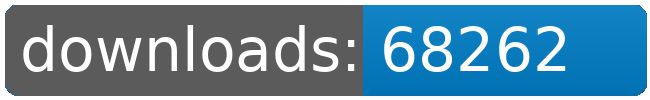
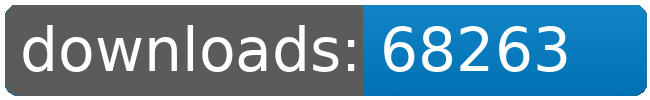
dl log written

Changed region(s): [[0.8308, 0.42, 0.8923, 0.72], [0.8, 0.27, 0.8615, 0.33]]

diff --git a/README.md b/README.md
@@ -4,80 +4,80 @@
 <table>
 	<tr>
 		<td></td>
-		<td>2026-10-27</td>
 		<td>2026-10-28</td>
 		<td>2026-10-29</td>
 		<td>2026-10-30</td>
 		<td>2026-10-31</td>
 		<td>2026-11-01</td>
 		<td>2026-11-02</td>
+		<td>2026-11-03</td>
 		<td>today +</td>
 	</tr>
 	<tr>
 		<td>Bunsen.Burner</td>
-		<td>9038</td>
 		<td>9050</td>
 		<td>9057</td>
 		<td>9064</td>
 		<td>9074</td>
 		<td>9081</td>
 		<td>9087</td>
-		<td>+ 6</td>
+		<td>9087</td>
+		<td></td>
 	</tr>
 	<tr>
 		<td>Factory.Outlets</td>
-		<td>8151</td>
 		<td>8164</td>
 		<td>8172</td>
 		<td>8179</td>
 		<td>8187</td>
 		<td>8196</td>
 		<td>8204</td>
-		<td>+ 8</td>
+		<td>8204</td>
+		<td></td>
 	</tr>
 	<tr>
 		<td>Fundamental.Outfit.Expansion</td>
-		<td>9571</td>
 		<td>9583</td>
 		<td>9590</td>
 		<td>9597</td>
 		<td>9609</td>
 		<td>9620</td>
 		<td>9632</td>
-		<td>+ 12</td>
+		<td>9633</td>
+		<td>+ 1</td>
 	</tr>
 	<tr>
 		<td>Fundamental.Outfit.Expansion.Alien</td>
 		<td>38</td>
 		<td>38</td>
 		<td>38</td>
-		<td>38</td>
 		<td>39</td>
 		<td>43</td>
 		<td>46</td>
-		<td>+ 3</td>
+		<td>46</td>
+		<td></td>
 	</tr>
 	<tr>
 		<td>Jaws</td>
-		<td>7901</td>
 		<td>7912</td>
 		<td>7919</td>
 		<td>7926</td>
 		<td>7935</td>
 		<td>7943</td>
 		<td>7949</td>
-		<td>+ 6</td>
+		<td>7949</td>
+		<td></td>
 	</tr>
 	<tr>
 		<td>Korunak.Defense.Drones</td>
-		<td>8171</td>
 		<td>8183</td>
 		<td>8190</td>
 		<td>8197</td>
 		<td>8206</td>
 		<td>8215</td>
 		<td>8220</td>
-		<td>+ 5</td>
+		<td>8220</td>
+		<td></td>
 	</tr>
 	<tr>
 		<td>Laser.Sight</td>
@@ -85,54 +85,54 @@
 		<td>19</td>
 		<td>19</td>
 		<td>19</td>
-		<td>19</td>
+		<td>21</td>
 		<td>21</td>
 		<td>21</td>
 		<td></td>
 	</tr>
 	<tr>
 		<td>Louise.Conglomerate.Shipyards</td>
-		<td>8890</td>
 		<td>8904</td>
 		<td>8912</td>
 		<td>8920</td>
 		<td>8933</td>
 		<td>8945</td>
 		<td>8956</td>
-		<td>+ 11</td>
+		<td>8956</td>
+		<td></td>
 	</tr>
 	<tr>
 		<td>Sheragi.Rebirth.Redux</td>
 		<td>110</td>
-		<td>110</td>
 		<td>112</td>
 		<td>112</td>
 		<td>112</td>
+		<td>113</td>
 		<td>113</td>
 		<td>113</td>
 		<td></td>
 	</tr>
 	<tr>
 		<td>Solar.Sails</td>
-		<td>8054</td>
 		<td>8068</td>
 		<td>8075</td>
 		<td>8082</td>
 		<td>8094</td>
 		<td>8101</td>
 		<td>8107</td>
-		<td>+ 6</td>
+		<td>8107</td>
+		<td></td>
 	</tr>
 	<tr>
 		<td>Zone.of.Control</td>
-		<td>7849</td>
 		<td>7862</td>
 		<td>7869</td>
 		<td>7876</td>
 		<td>7885</td>
 		<td>7893</td>
 		<td>7898</td>
-		<td>+ 5</td>
+		<td>7898</td>
+		<td></td>
 	</tr>
 	<tr>
 		<td>zzzZapping.Tweaks</td>
@@ -140,7 +140,7 @@
 		<td>27</td>
 		<td>27</td>
 		<td>27</td>
-		<td>27</td>
+		<td>29</td>
 		<td>29</td>
 		<td>29</td>
 		<td></td>
@@ -153,8 +153,8 @@
 		<td></td>
 		<td></td>
 		<td></td>
-		<td>68262</td>
-		<td>62</td>
+		<td>68263</td>
+		<td>1</td>
 	</tr>
 </table>
 </sub></sup>
@@ -162,110 +162,110 @@
 <table>
 	<tr>
 		<td></td>
-		<td>2026-10-27</td>
 		<td>2026-10-28</td>
 		<td>2026-10-29</td>
 		<td>2026-10-30</td>
 		<td>2026-10-31</td>
 		<td>2026-11-01</td>
 		<td>2026-11-02</td>
+		<td>2026-11-03</td>
 		<td>today +</td>
 	</tr>
 	<tr>
 		<td>Fundamental.Outfit.Expansion</td>
-		<td>9571</td>
 		<td>9583</td>
 		<td>9590</td>
 		<td>9597</td>
 		<td>9609</td>
 		<td>9620</td>
 		<td>9632</td>
-		<td>+ 12</td>
+		<td>9633</td>
+		<td>+ 1</td>
 	</tr>
 	<tr>
 		<td>Bunsen.Burner</td>
-		<td>9038</td>
 		<td>9050</td>
 		<td>9057</td>
 		<td>9064</td>
 		<td>9074</td>
 		<td>9081</td>
 		<td>9087</td>
-		<td>+ 6</td>
+		<td>9087</td>
+		<td></td>
 	</tr>
 	<tr>
 		<td>Louise.Conglomerate.Shipyards</td>
-		<td>8890</td>
 		<td>8904</td>
 		<td>8912</td>
 		<td>8920</td>
 		<td>8933</td>
 		<td>8945</td>
 		<td>8956</td>
-		<td>+ 11</td>
+		<td>8956</td>
+		<td></td>
 	</tr>
 	<tr>
 		<td>Korunak.Defense.Drones</td>
-		<td>8171</td>
 		<td>8183</td>
 		<td>8190</td>
 		<td>8197</td>
 		<td>8206</td>
 		<td>8215</td>
 		<td>8220</td>
-		<td>+ 5</td>
+		<td>8220</td>
+		<td></td>
 	</tr>
 	<tr>
 		<td>Factory.Outlets</td>
-		<td>8151</td>
 		<td>8164</td>
 		<td>8172</td>
 		<td>8179</td>
 		<td>8187</td>
 		<td>8196</td>
 		<td>8204</td>
-		<td>+ 8</td>
+		<td>8204</td>
+		<td></td>
 	</tr>
 	<tr>
 		<td>Solar.Sails</td>
-		<td>8054</td>
 		<td>8068</td>
 		<td>8075</td>
 		<td>8082</td>
 		<td>8094</td>
 		<td>8101</td>
 		<td>8107</td>
-		<td>+ 6</td>
+		<td>8107</td>
+		<td></td>
 	</tr>
 	<tr>
 		<td>Jaws</td>
-		<td>7901</td>
 		<td>7912</td>
 		<td>7919</td>
 		<td>7926</td>
 		<td>7935</td>
 		<td>7943</td>
 		<td>7949</td>
-		<td>+ 6</td>
+		<td>7949</td>
+		<td></td>
 	</tr>
 	<tr>
 		<td>Zone.of.Control</td>
-		<td>7849</td>
 		<td>7862</td>
 		<td>7869</td>
 		<td>7876</td>
 		<td>7885</td>
 		<td>7893</td>
 		<td>7898</td>
-		<td>+ 5</td>
+		<td>7898</td>
+		<td></td>
 	</tr>
 	<tr>
 		<td>Sheragi.Rebirth.Redux</td>
 		<td>110</td>
-		<td>110</td>
 		<td>112</td>
 		<td>112</td>
 		<td>112</td>
+		<td>113</td>
 		<td>113</td>
 		<td>113</td>
 		<td></td>
@@ -275,11 +275,11 @@
 		<td>38</td>
 		<td>38</td>
 		<td>38</td>
-		<td>38</td>
 		<td>39</td>
 		<td>43</td>
 		<td>46</td>
-		<td>+ 3</td>
+		<td>46</td>
+		<td></td>
 	</tr>
 	<tr>
 		<td>zzzZapping.Tweaks</td>
@@ -287,7 +287,7 @@
 		<td>27</td>
 		<td>27</td>
 		<td>27</td>
-		<td>27</td>
+		<td>29</td>
 		<td>29</td>
 		<td>29</td>
 		<td></td>
@@ -298,7 +298,7 @@
 		<td>19</td>
 		<td>19</td>
 		<td>19</td>
-		<td>19</td>
+		<td>21</td>
 		<td>21</td>
 		<td>21</td>
 		<td></td>
@@ -311,8 +311,8 @@
 		<td></td>
 		<td></td>
 		<td></td>
-		<td>68262</td>
-		<td>62</td>
+		<td>68263</td>
+		<td>1</td>
 	</tr>
 </table>
 </sub></sup>
@@ -379,9 +379,9 @@
 		<td></td>
 	</tr>
 	<tr>
-		<td>385</td>
-		<td>20.40</td>
-		<td>6.17</td>
+		<td>386</td>
+		<td>20.35</td>
+		<td>6.15</td>
 		<td></td>
 		<td></td>
 	</tr>
